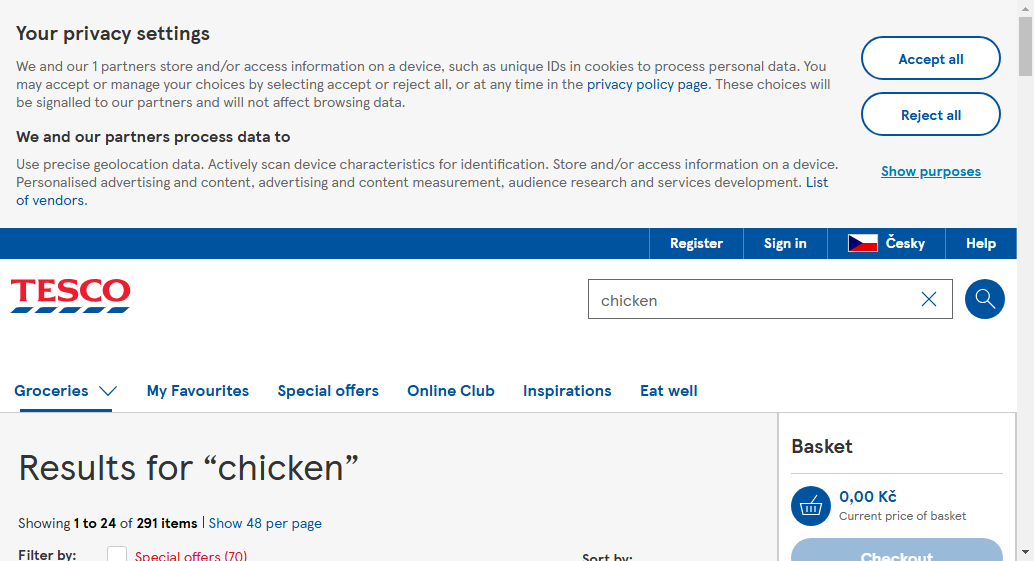
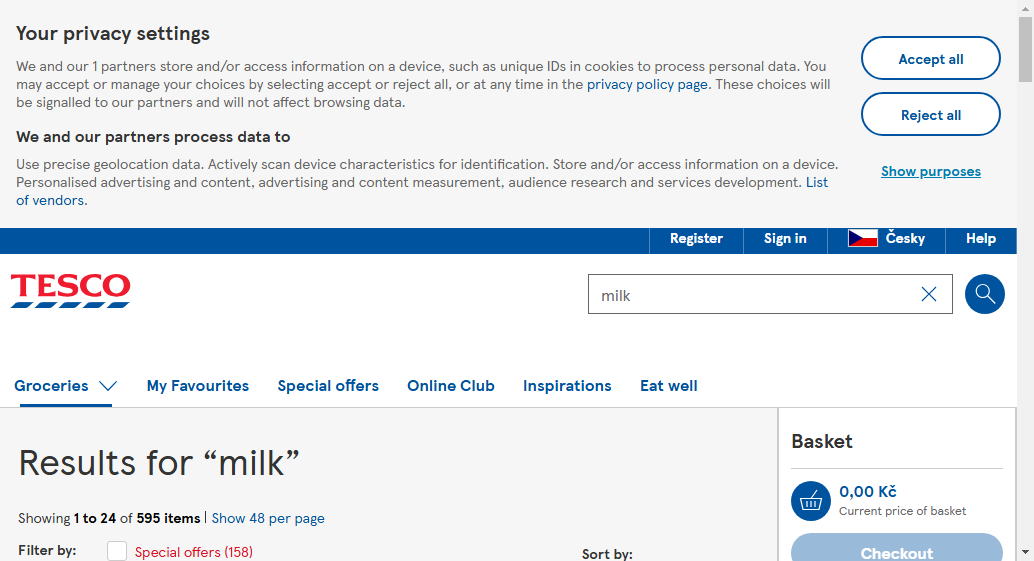
All tests done

diff --git a/tests/test_integrations.py b/tests/test_integrations.py
@@ -5,15 +5,24 @@ from src.models import Product
 
 class TestIntegration(unittest.TestCase):
     def test_fetch_and_parse(self):
-        fetcher = Fetcher("http://example.com", "test-class")
+        fetcher = Fetcher("https://nakup.itesco.cz/groceries/en-GB/search?query=milk", "product-details--wrapper")
         html = fetcher.fetch_html()
 
-        parser = Parser(class_name="test-class")
+        parser = Parser(class_name="product-details--wrapper")
         products = parser.parse_products(html)
 
         self.assertIsInstance(products, list)
         self.assertGreater(len(products), 0)
-        self.assertIsInstance(products[0], Product)
+        self.assertIsInstance(products[0], dict)
+        self.assertIn("Name", products[0])
+        self.assertIn("Price", products[0])
+        self.assertIn("PricePerKg", products[0])
+        self.assertIn("OfferPrice", products[0])
+        self.assertIn("OfferPriceClubCard", products[0])
+        self.assertIn("DateOfOffer", products[0])
+        self.assertIn("DateOfOfferClubCard", products[0])
+        self.assertIn("Url", products[0])
+        self.assertIn("Timestamp", products[0])
 
 if __name__ == '__main__':
     unittest.main()
